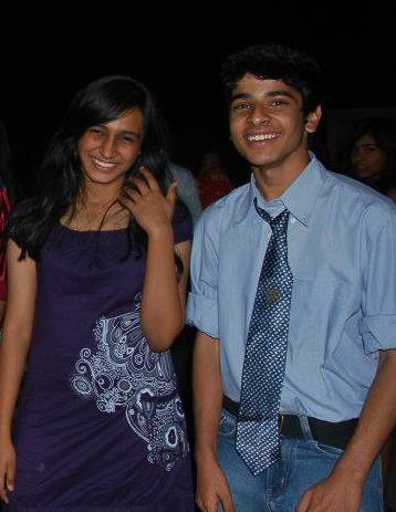
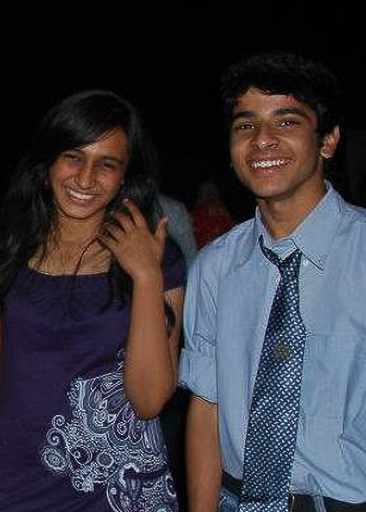
Ensure that our story images are showing correctly on different screen sizes

diff --git a/templates/our_story.html b/templates/our_story.html
@@ -23,19 +23,57 @@
         flex: 1;
         position: relative;
         width: 100%;
-        min-height: 66vh; /* Ensure the image container takes up the appropriate height on mobile */
+        min-height: 50vh; /* Ensure the image container takes up the appropriate height on mobile */
         max-height: 500px;
         display: flex;
         align-items: flex-start; /* Align items to the center */
         justify-content: center; /* Center the image */
         padding-top: 10px;
     }
+
     @media (min-width: 768px) {
         .slideshow-container {
             max-width: 33%;
             height: 100%; /* Ensure the image container takes up the full height on larger screens */
         }
     }
+
+
+    /* Media query for iPhone SE (375x667) */
+    @media screen and (min-width: 360px) and (max-width: 375px) and (max-height: 667px) {
+        .slideshow-container {
+            min-height: 70vh; /* Set the desired minimum height for iPhone SE */
+        }
+    }
+
+    /* Media query for iPhone XR (414x896) */
+    @media screen and (min-width: 376px) and (max-width: 414px) and (max-height: 896px) {
+        .slideshow-container {
+            min-height: 52vh; /* Set the desired minimum height for iPhone XR */
+        }
+    }
+
+    /* Media query for iPhone 12 Pro (390x844) */
+    @media screen and (min-width: 390px) and (max-width: 390px) and (max-height: 844px) {
+        .slideshow-container {
+            min-height: 55vh; /* Set the desired minimum height for iPhone 12 Pro */
+        }
+    }
+
+    /* Media query for iPhone 14 Pro Max (430x932) */
+    @media screen and (min-width: 430px) and (max-width: 430px) and (max-height: 932px) {
+        .slideshow-container {
+            min-height: 50vh; /* Set the desired minimum height for iPhone 14 Pro Max */
+        }
+    }
+
+    /* Media query for Samsung Galaxy S8+ (360x740) */
+    @media screen and (min-width: 360px) and (max-width: 360px) and (max-height: 740px) {
+        .slideshow-container {
+            min-height: 63vh; /* Set the desired minimum height for Samsung Galaxy S8+ */
+        }
+    }
+
     .polaroid {
         background: white;
         padding: 10px;
@@ -49,8 +87,9 @@
     }
     .polaroid img {
         width: 100%;
-        height: auto;
+        height: 400px; /* Fixed height for consistency */
         object-fit: cover;
+        object-position: center; /* Center the image */
         border-bottom: 1px solid #ddd;
     }
     .polaroid .caption {
@@ -110,8 +149,8 @@
 
 <div class="story-page-container">
     <div class="slideshow-container">
-        {% for i in range(1,30) %}
-        <div class="polaroid {% if i == 0 %}active-slide{% endif %}">
+        {% for i in range(1, 30) %}
+        <div class="polaroid {% if i == 1 %}active-slide{% endif %}">
             <img src="../static/images/our-story/timeline-{{ i }}.jpg" alt="Polaroid Image {{ i }}">
             <div class="caption">Caption for Image {{ i }}</div>
         </div>
@@ -156,8 +195,19 @@
             slideIndex = 1;
         }
         slides[slideIndex - 1].classList.add('active-slide');
-        setTimeout(showSlides, 3000); // Change image every 3 seconds
+        setTimeout(showSlides, 2000); // Change image every 3 seconds
     }
     showSlides();
+</script>
+<script type="text/javascript">
+    $(document).ready(function(){
+        $('.slider').slick({
+            infinite: true,
+            slidesToShow: 1,
+            slidesToScroll: 1,
+            arrows: true,
+            dots: true,
+        });
+    });
 </script>
 {% endblock %}
